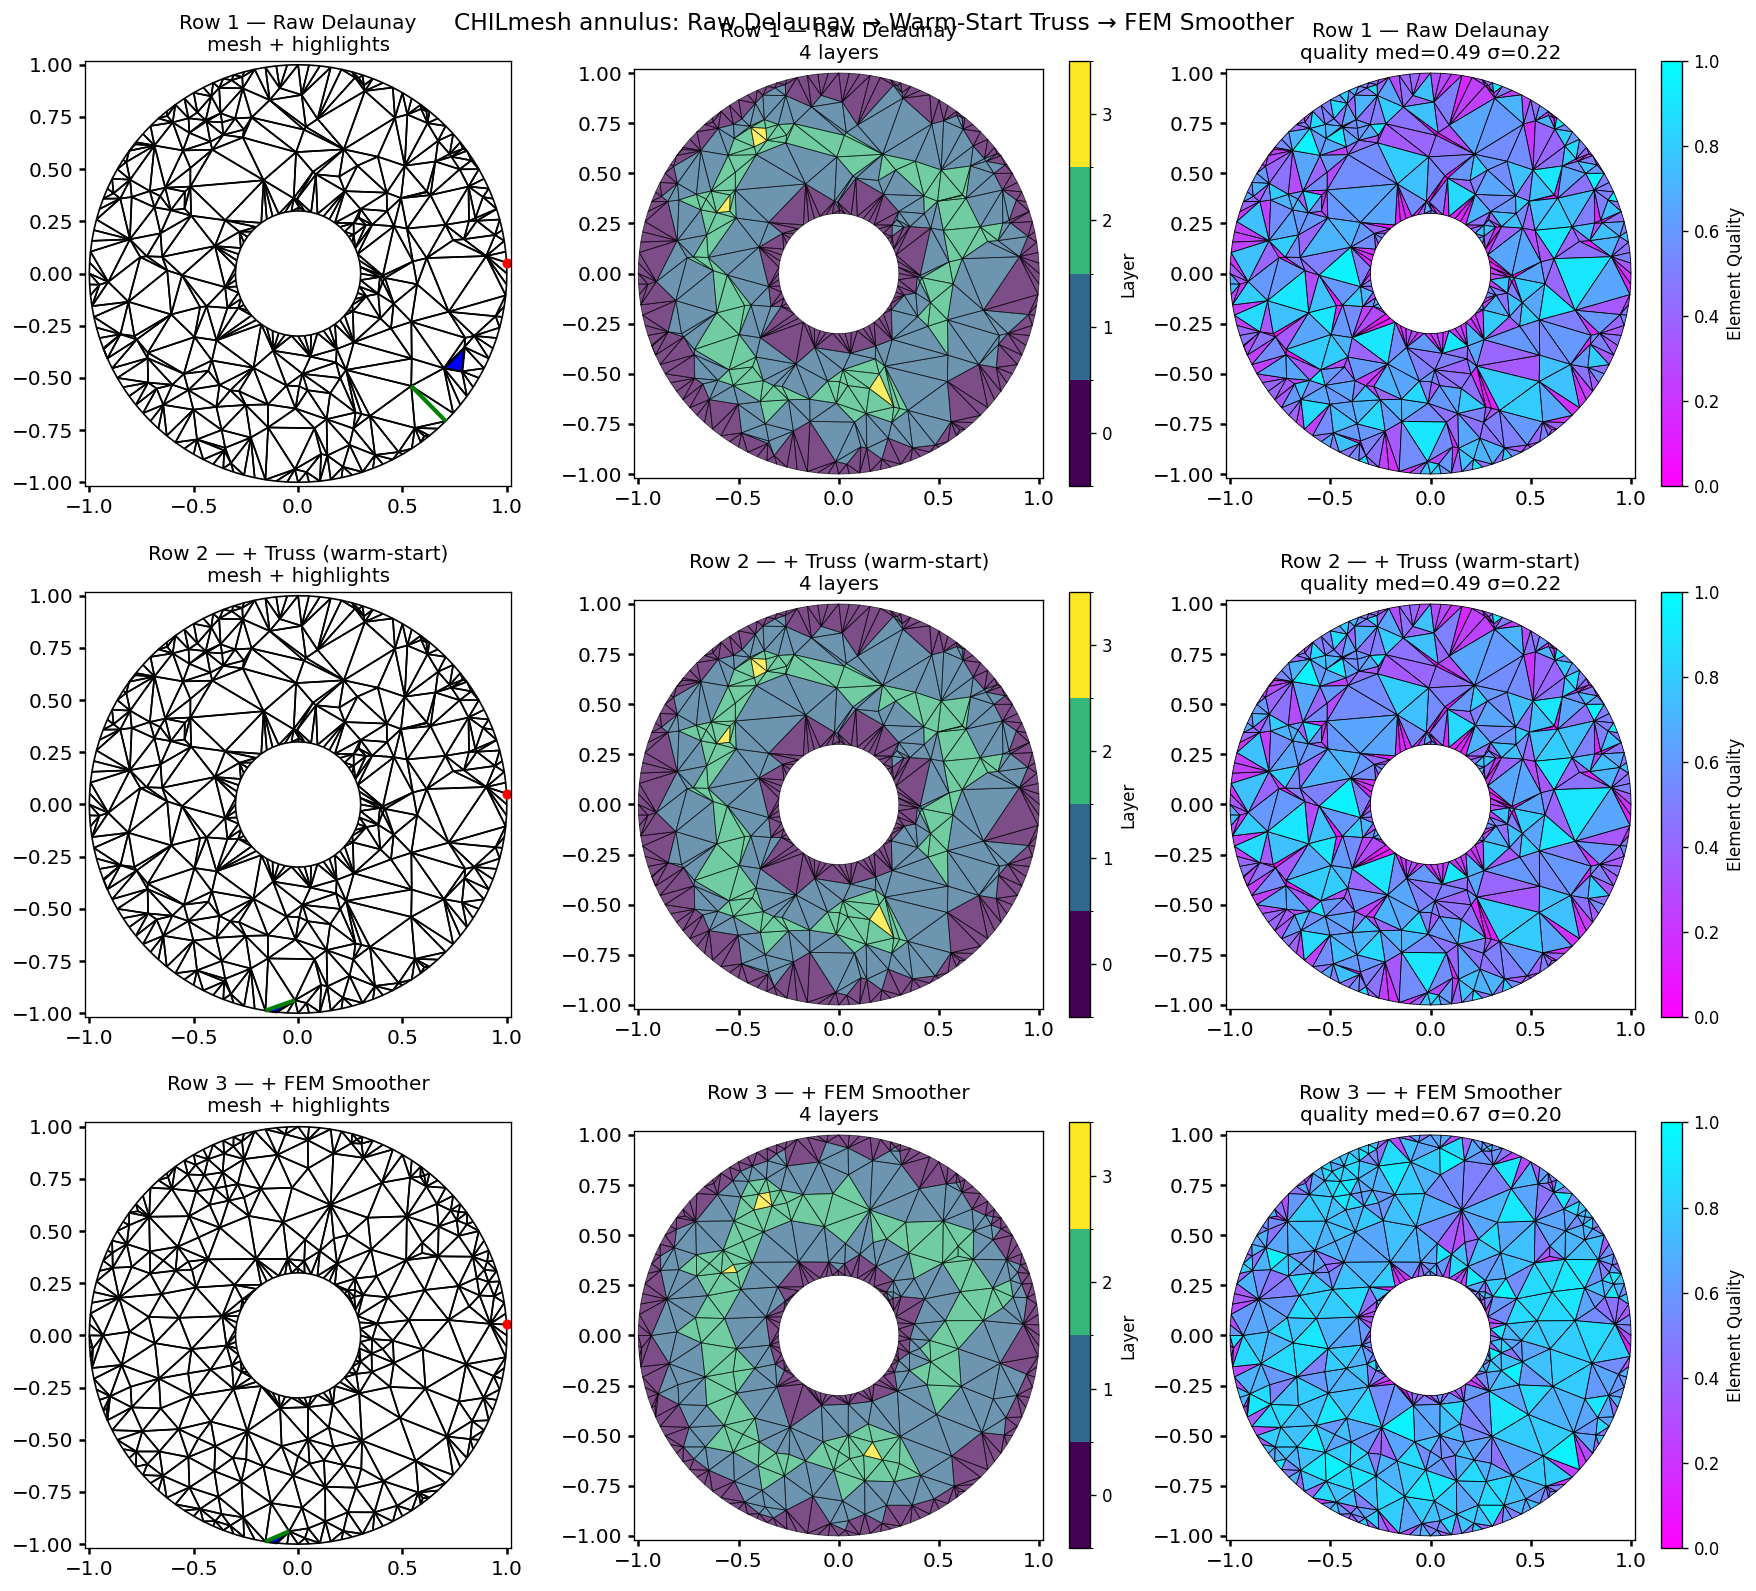
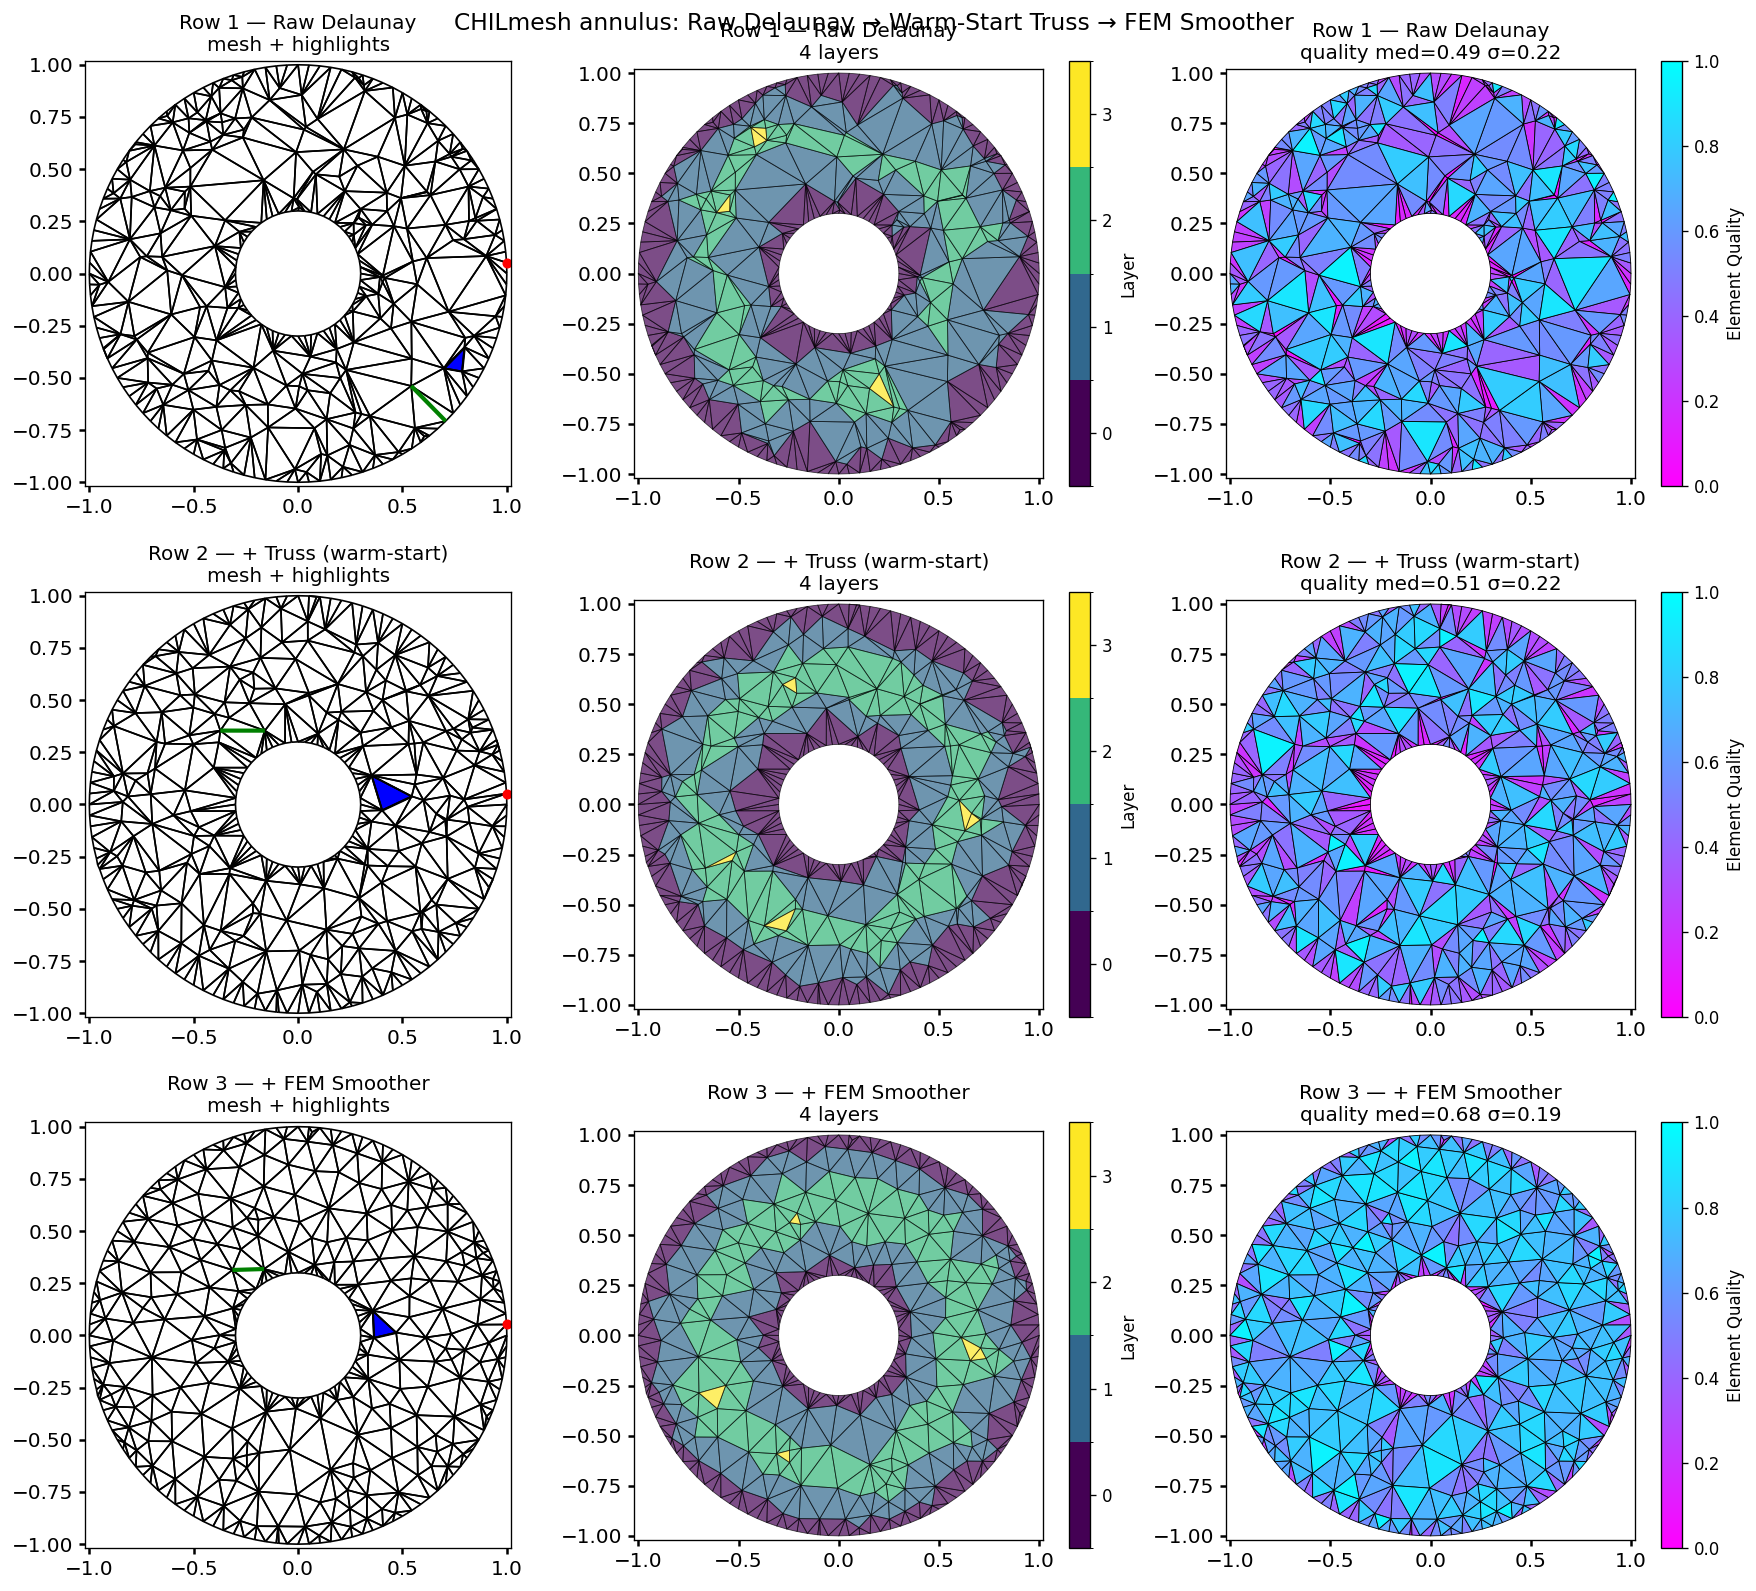
fix(quickstart): use conservative truss params so row 2 visibly improves
Default Fscale=1.2/deltat=0.2 caused large initial displacements that
triggered the quality-drop early-stop guard, returning the input unchanged.
Fscale=1.05/deltat=0.05 keeps steps small enough that quality improves
monotonically: raw 0.49 → truss 0.51 → FEM 0.68.

diff --git a/tests/test_readme_quickstart.py b/tests/test_readme_quickstart.py
@@ -75,10 +75,12 @@ def test_readme_annulus_regenerates_and_validates(tmp_path):
     _assert_valid(mesh, "annulus (raw)")
 
     # Row 2 — warm-start truss (chilmesh-internal, no external admesh needed)
+    # Fscale=1.05/deltat=0.05: conservative step avoids early quality-drop exit
     with warnings.catch_warnings():
         warnings.simplefilter("ignore", RuntimeWarning)
         truss = optimize_with_admesh_truss(
-            mesh, _ANNULUS_SDF, enforce_non_degradation=False
+            mesh, _ANNULUS_SDF, enforce_non_degradation=False,
+            Fscale=1.05, deltat=0.05, niter=300,
         )
     _assert_valid(truss, "annulus (truss)")
 
